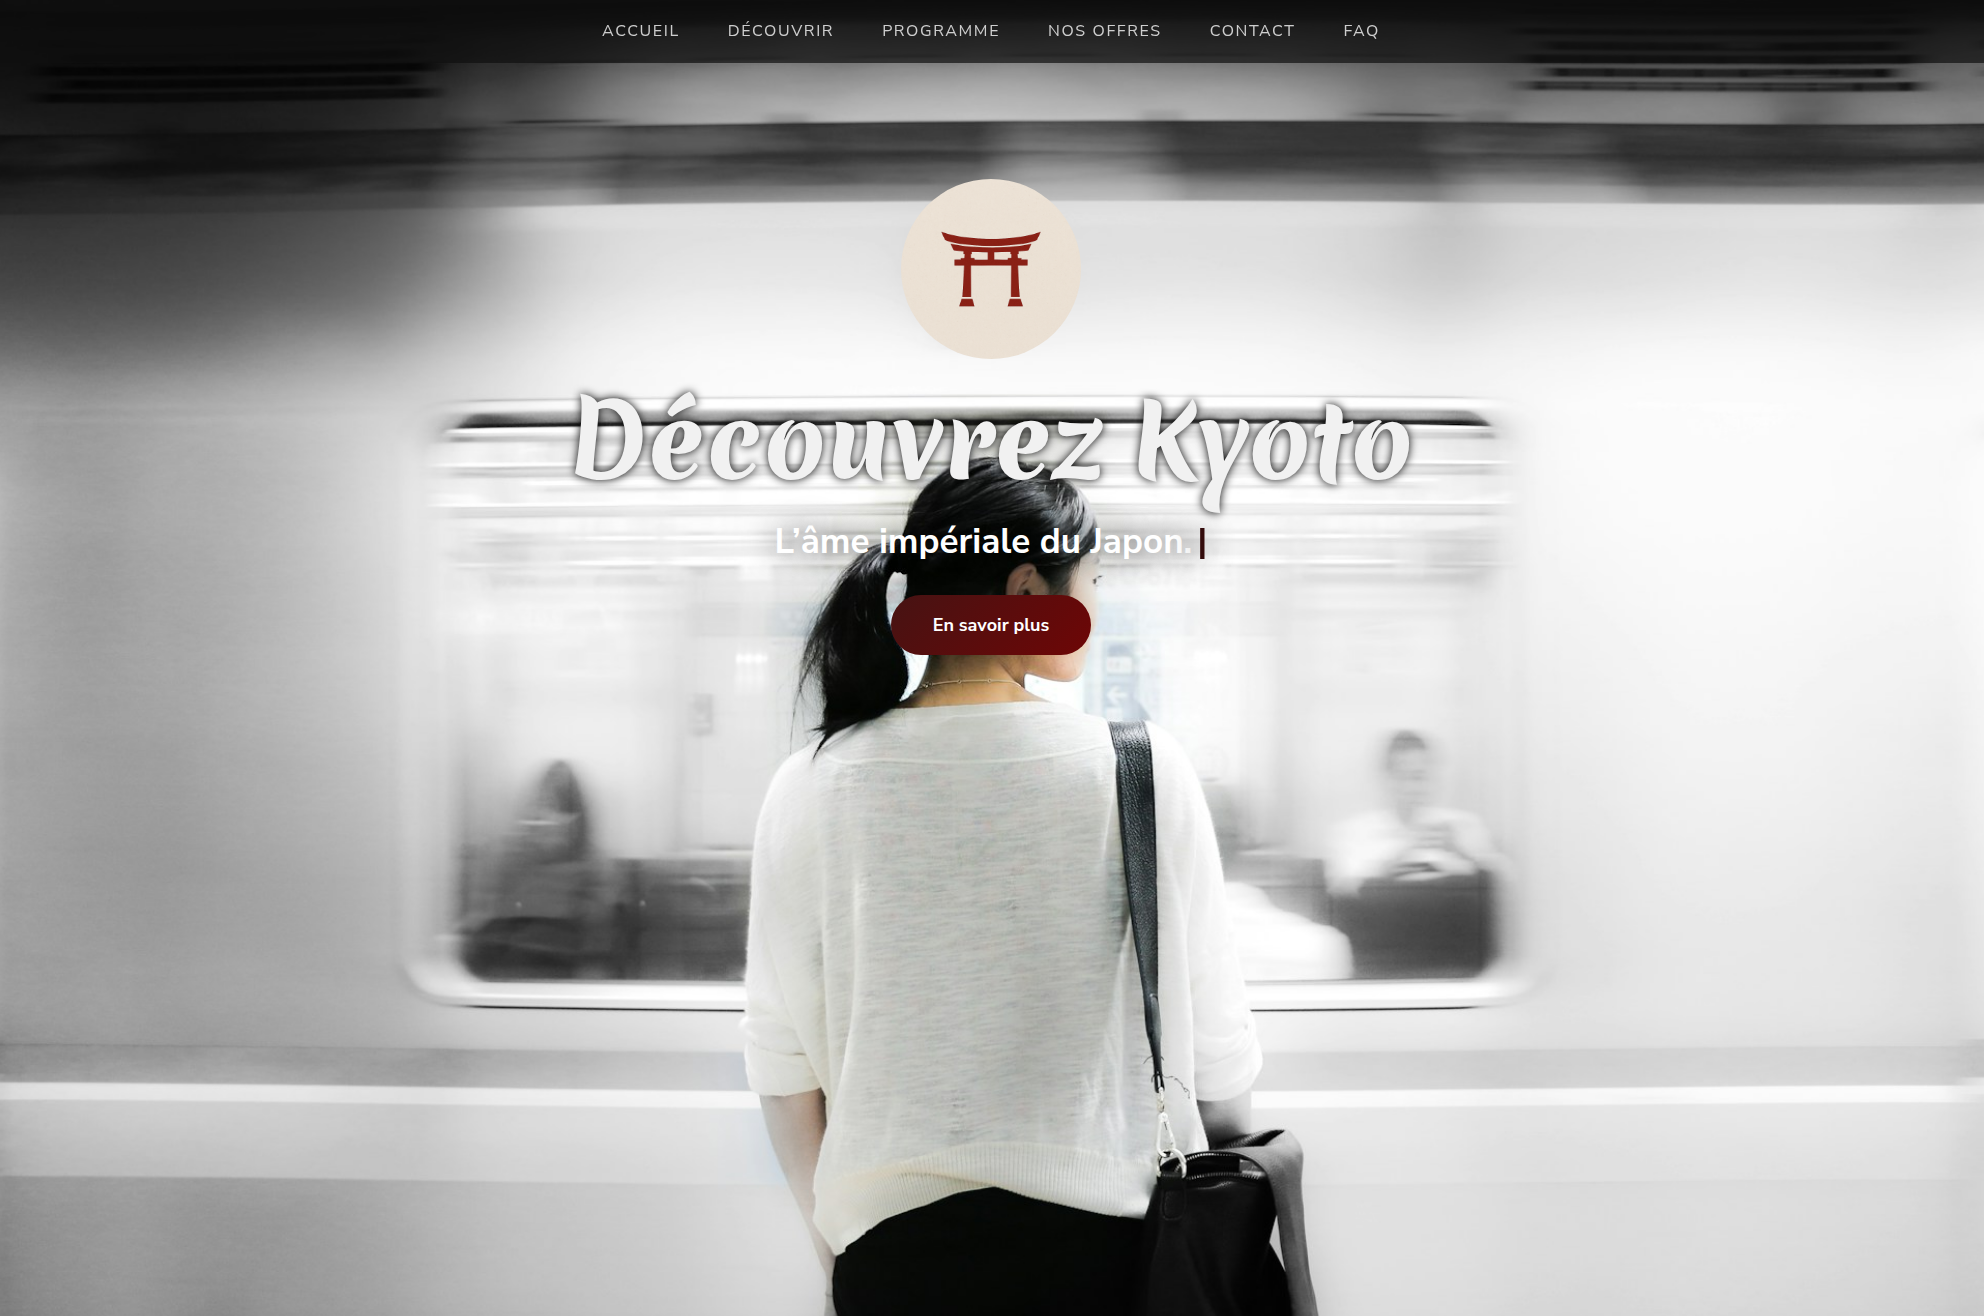
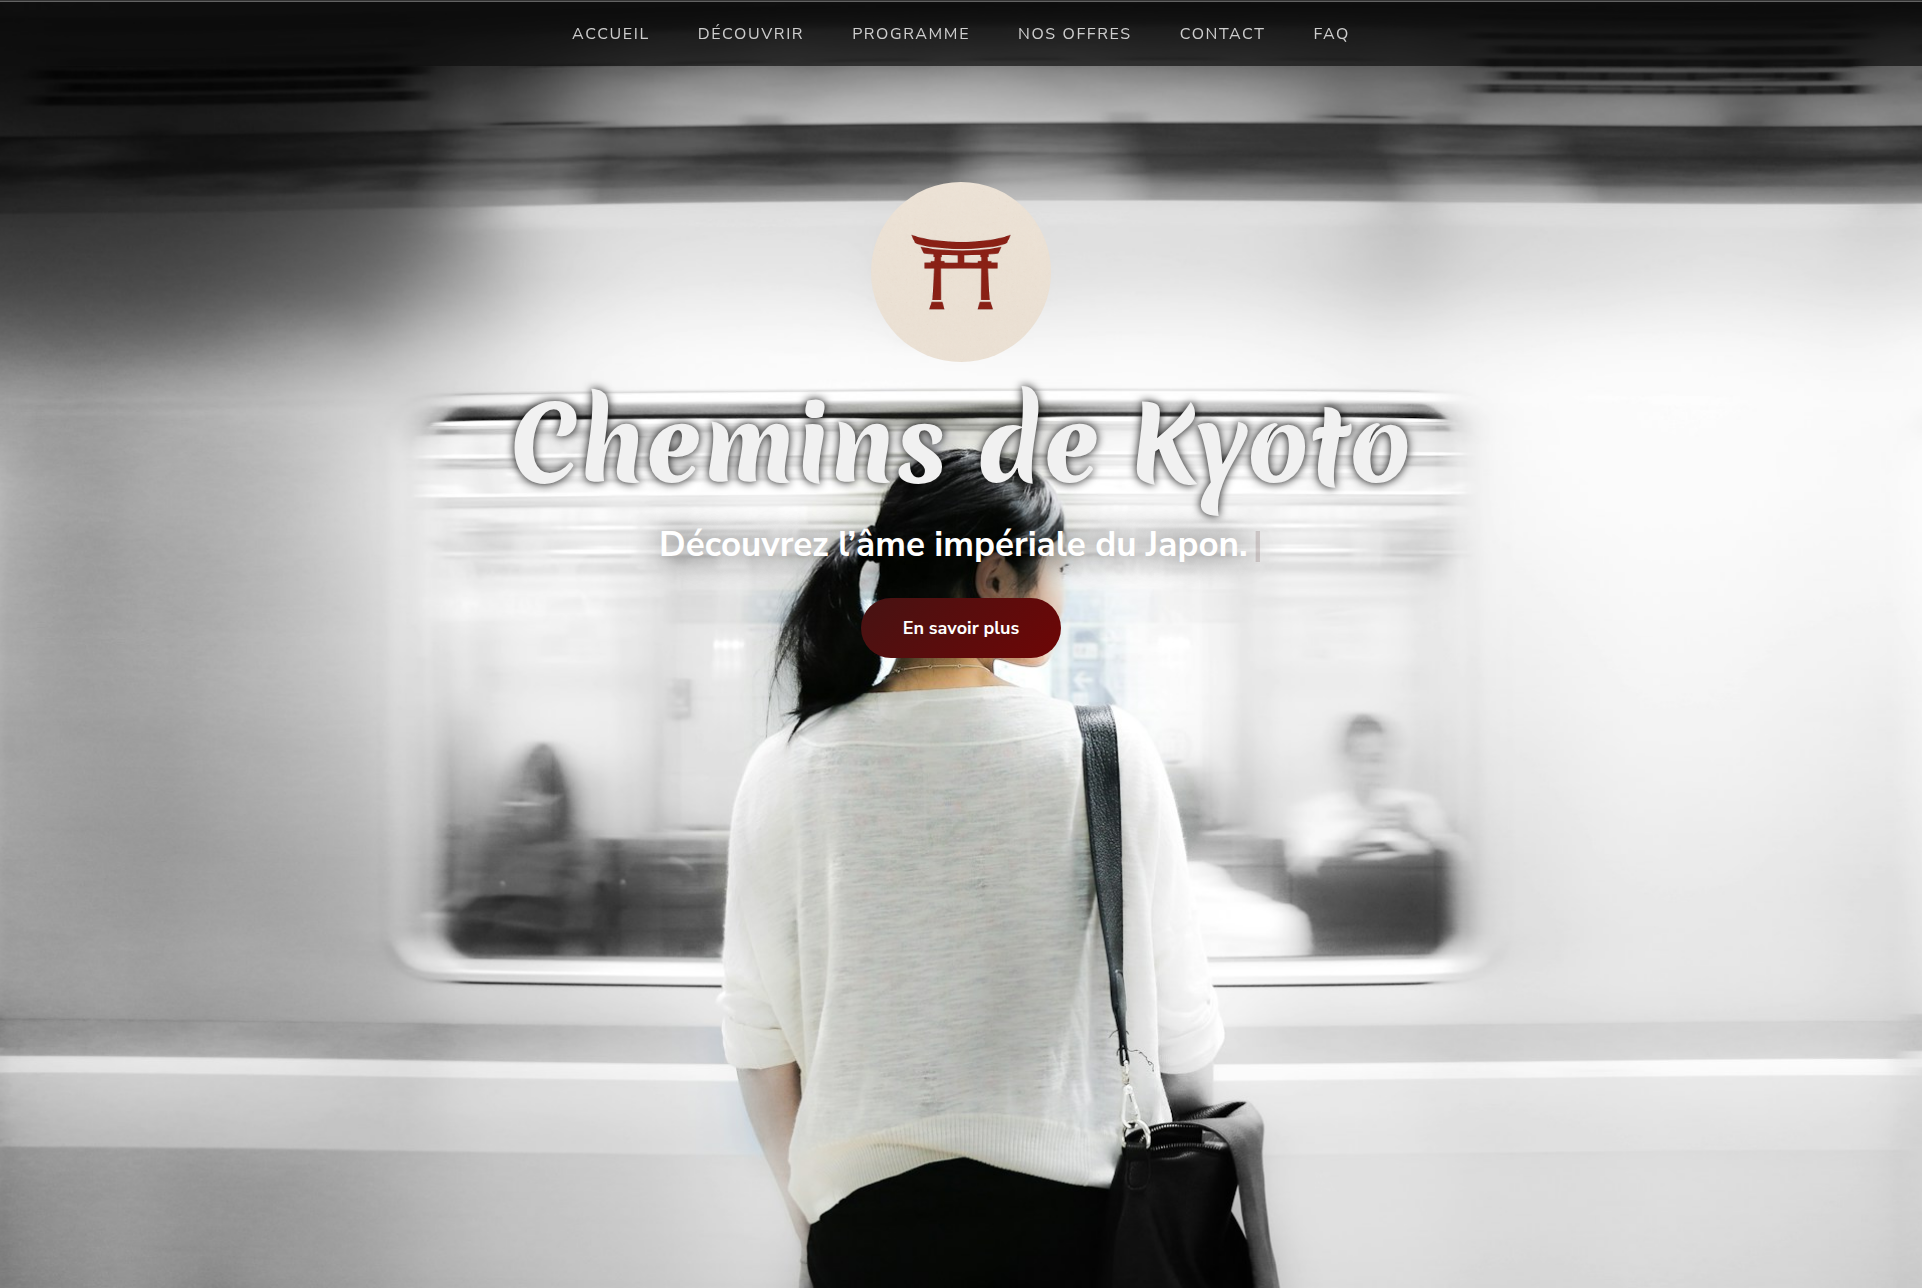
Update accueil

diff --git a/index.html b/index.html
@@ -33,10 +33,10 @@
 		<!-- Accueil -->
 		<div class="accueil" id="home">
 			<img src="ressources/logo.png" alt="logo porte japon" class="logo-kyoto">
-			<h1 class="fade-in">Découvrez Kyoto</h1>
-			<p class="sous-titre">L’âme impériale du Japon.</p>
+			<h1 class="fade-in">Chemins de Kyoto</h1>
+			<p class="sous-titre">Découvrez l’âme impériale du Japon.</p>
 			<a href="#asym" class="btn-accueil">En savoir plus</a>
-      <div class="gsap-reveal"></div>
+      		<div class="gsap-reveal"></div>
 		</div>
 
 
